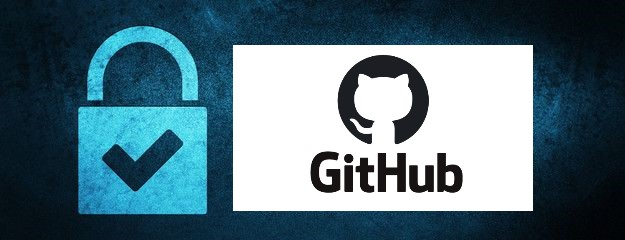
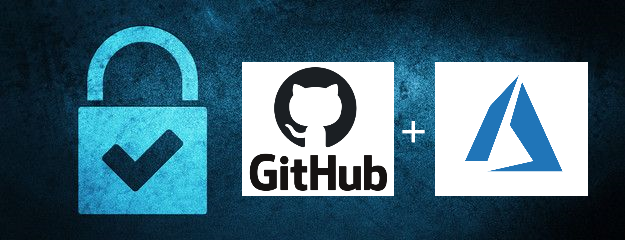
update cover and heading

Changed region(s): [[0.3648, 0.175, 0.9424, 0.9042]]

diff --git a/posts/GitHub-Protect-secrets-in-Github-Azure-Key-Vault/GitHub-Protect-secrets-in-Github-Azure-Key-Vault.md b/posts/GitHub-Protect-secrets-in-Github-Azure-Key-Vault/GitHub-Protect-secrets-in-Github-Azure-Key-Vault.md
@@ -8,4 +8,4 @@ canonical_url: null
 id: 698968
 ---
 
-## :bulb: 
+## :bulb: How to protect secrets in Github with Azure Key Vault
